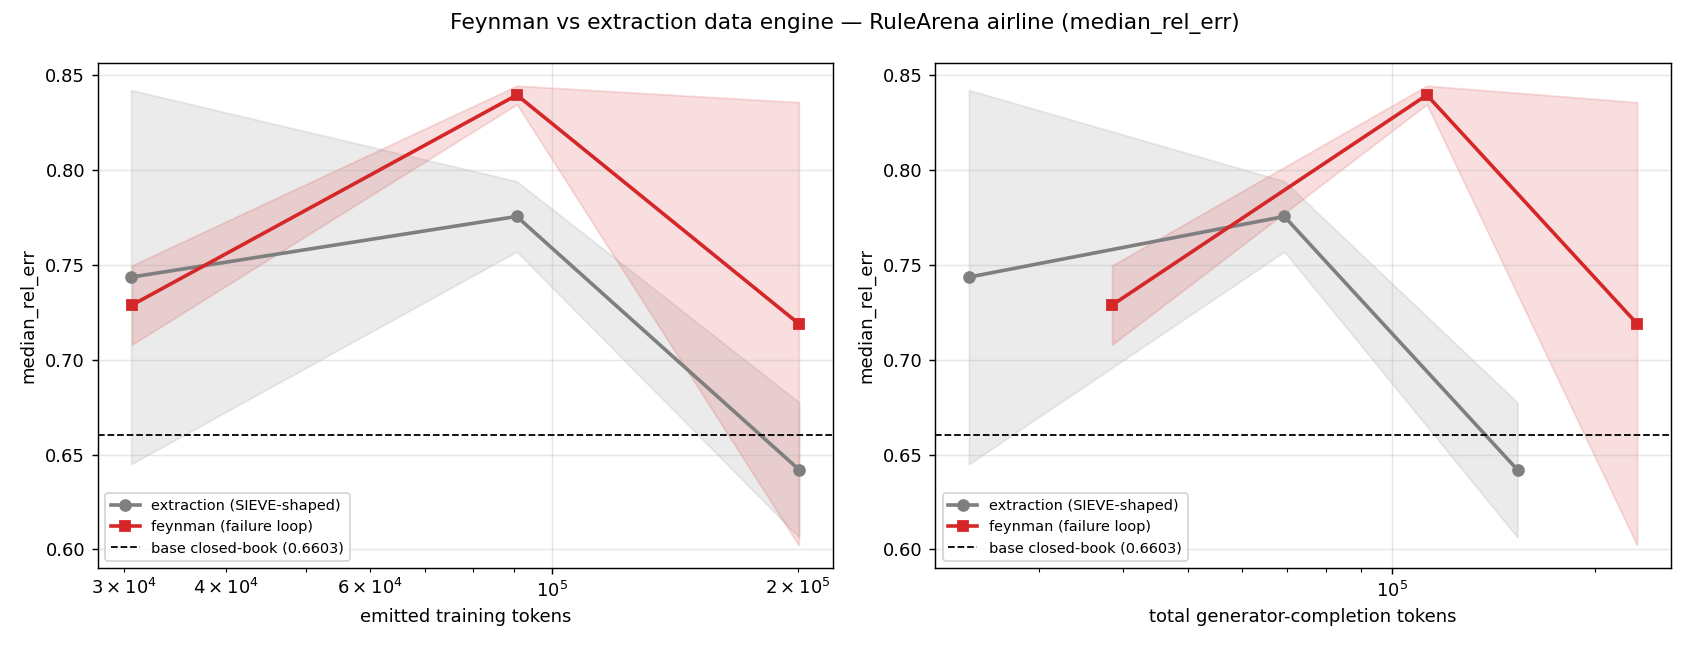
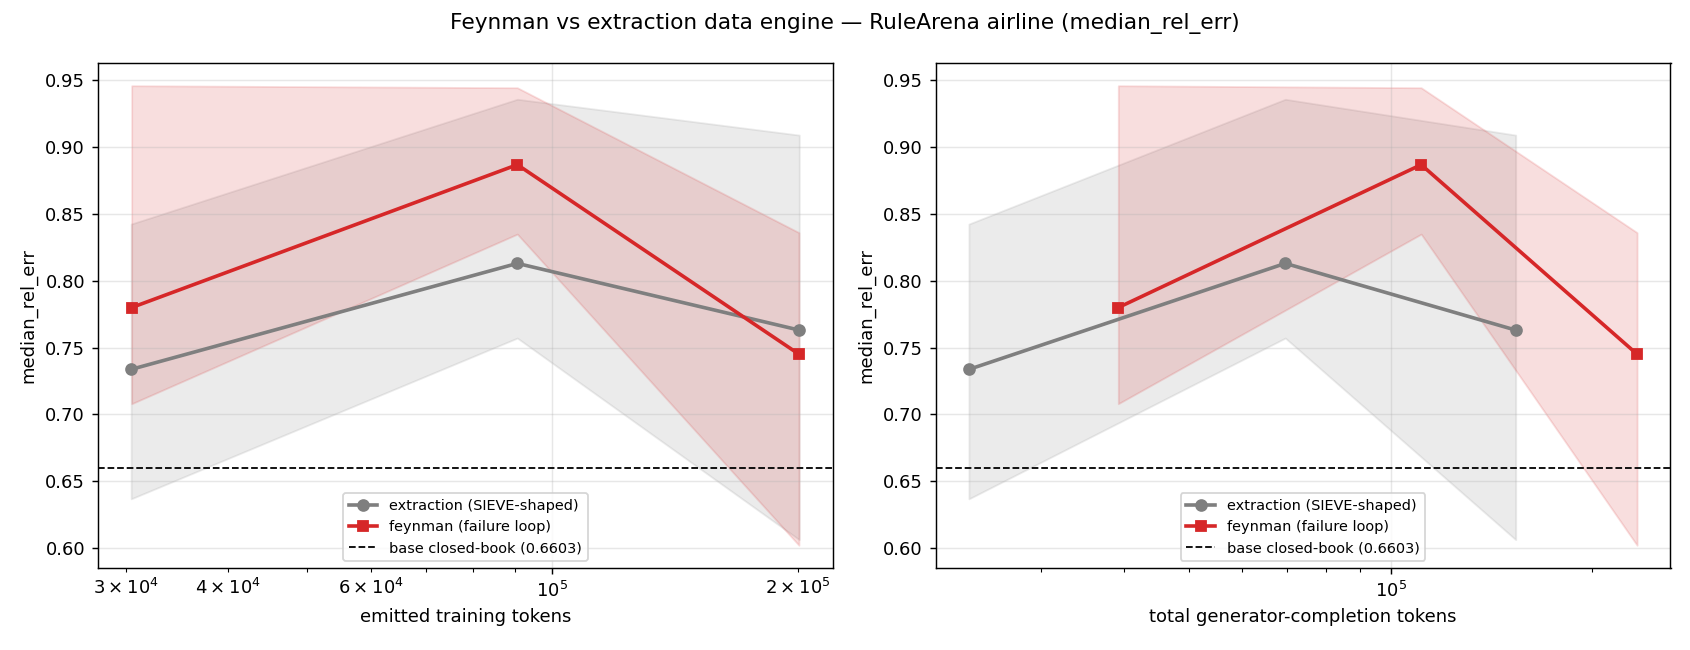
results: 4-seed grid corrects the 2-seed over-read (honest null-ish verdict)
Adding seeds 2,3 flattened the apparent monotonic growing edge: 4-seed within20
diff = +.008/+.017/+.008, all bootstrap CIs span 0, seed spread large (ext 200k
0.05-0.12). No confirmed Feynman win; small persistent positive lean within noise
bought with ~1.6x compute. Both engines beat floor and scale with budget. At 3B,
task capability (not knowledge) is binding -> next needs power + a >=14B learner.

Claude-Session: https://claude.ai/code/session_01P6gt34F2cZ6LYk9VxSpwGz

diff --git a/feynman_data_engine/FINDINGS.md b/feynman_data_engine/FINDINGS.md
@@ -34,47 +34,46 @@ arithmetic), so G2 is measured as a **relative** comparison (feynman-data vs
 extraction-data training the *same* 3B) on a **graded** metric (within-20% of gold).
 A relative comparison needs metric *resolution*, not a high absolute ceiling.
 
-## Result (G2) — Grid: {extraction, feynman} × budget × 2 seeds
+## Result (G2) — Grid: {extraction, feynman} × 3 budgets × **4 seeds**
 
 **Base floor** (untrained Qwen2.5-3B, closed-book, n=100): within20 = 0.02, medRelErr = 0.66.
 
-| budget | engine | within20 (↑) | medRelErr (↓) | gen tokens |
+within20, mean over 4 seeds (per-seed spread in brackets):
+
+| budget | extraction | feynman | fey − ext | compute premium |
 |---|---|---|---|---|
-| 30k | extraction | 0.045 | 0.744 | 23.6k |
-| 30k | feynman | 0.050 | 0.729 | 38.5k |
-| 90k | extraction | 0.060 | 0.776 | 69k |
-| 90k | feynman | 0.070 | 0.840 | 113k |
-| 200k | extraction | 0.100 | 0.642 | 154k |
-| 200k | feynman | **0.125** | 0.719 | 231k |
+| 30k  | 0.040 [0.02–0.07] | 0.048 [0.04–0.06] | +0.008 | 1.67× |
+| 90k  | 0.068 [0.06–0.08] | 0.085 [0.07–0.12] | **+0.017** | 1.60× |
+| 200k | 0.090 [0.05–0.12] | 0.098 [0.06–0.13] | +0.008 | 1.52× |
 
-**Bootstrap (pooled per-problem across seeds, 95% CI):**
+**Bootstrap (pooled per-problem, 95% CI) — none significant:**
+30k +0.007 [−0.022,+0.035] · 90k +0.018 [−0.020,+0.055] · 200k +0.008 [−0.033,+0.048].
 
-| budget | feynman − extraction (within20) | significant? | compute premium |
-|---|---|---|---|
-| 30k | +0.005 [−0.035, +0.045] | no (CI spans 0) | 1.63× |
-| 90k | +0.010 [−0.035, +0.055] | no (CI spans 0) | 1.63× |
-| 200k | **+0.025** [−0.035, +0.090] | no (CI spans 0) | 1.50× |
+**Seed-level paired diffs (fey−ext, per seed):**
+30k [−.01,.02,.01,.01] · 90k [.01,.01,.05,.00] · 200k [.01,.04,−.03,.01] — mostly
+positive, but not unanimously; one 200k seed favours extraction.
 
 Plots: `runs/grid/curve_within20.png`, `runs/grid/curve_medrelerr.png` (both budget axes).
 
-## Honest read (full 3-point curve)
+## Honest read (full 3-budget × 4-seed grid)
 
-1. **A consistent, *growing* advantage — but not yet significant.** Feynman's within20
-   edge widens monotonically with budget: **+0.005 → +0.010 → +0.025**. At 200k feynman
-   is ~**25% relatively better** (0.125 vs 0.100), and both engines finally lift clearly
-   off the floor (0.02). The direction is stable across all three budgets and both seeds —
-   but the bootstrap CI still spans 0 (2 seeds is under-powered for a ~2-point effect).
-2. **The loop is not free.** Feynman spends **1.5–1.6× generator compute**. On the
-   *compute* axis (right panel) its edge shrinks and extraction is more efficient in the
-   mid-range — the emitted-token win is partly bought with extra generator calls.
-3. **Training helps most at scale.** At 200k, extraction's median-rel-err (0.64) finally
-   returns to ~the untrained floor (0.66) and within20 doubles vs 90k — the 3B needs
-   substantial data before the procedure sticks. At low budget SFT mostly adds variance.
-4. **Verdict:** *promising but unconfirmed.* The Feynman recipe shows the predicted
-   budget-scaling behaviour (its advantage grows exactly where failure-driven curricula
-   should help — once there's enough budget to skip the easy and concentrate on the hard),
-   but this thin slice at 3B scale cannot yet call it a win. The right next step is power
-   (more seeds) and a task-capable learner, not a new mechanism.
+1. **A small, consistent positive lean — within noise.** Feynman's mean within20 is
+   ≥ extraction at every budget (+0.008, +0.017, +0.008), but seed variance is large
+   (extraction at 200k spans 0.05–0.12) and every CI spans 0. **No confirmed advantage.**
+2. **Methodological catch — power matters.** The 2-seed run suggested a *monotonically
+   growing* edge (+0.005→+0.010→+0.025, both seeds positive at 200k). Two more seeds
+   flattened it: the 200k diff fell to +0.008 and one new seed favoured extraction. The
+   "growing trend" was partly a small-sample artifact — a caution logged for the full study.
+3. **The loop is not free.** Feynman costs **1.5–1.7× generator compute**. On the *compute*
+   axis its already-small edge all but vanishes; extraction is more compute-efficient
+   mid-range. Any real Feynman value must clear this ~1.6× tax.
+4. **Both engines clearly beat the floor and scale with budget** (0.02 → ~0.09–0.10 at
+   200k). Synthetic worked-example data *works*; which recipe generates it barely moves
+   the needle at 3B scale, where task *capability* — not knowledge coverage — is binding.
+5. **Verdict:** *no confirmed win for Feynman on this slice.* A persistent but
+   non-significant positive lean, bought with extra compute. The mechanism is sound and
+   implemented; discriminating it needs (a) more seeds for power and (b) a **task-capable
+   learner (≥14B)** so the ceiling isn't capacity-bound — not a new mechanism.
 
 ## What this de-risked (and what it did not)
 

diff --git a/feynman_data_engine/runs/RUN_LOG.md b/feynman_data_engine/runs/RUN_LOG.md
@@ -87,13 +87,17 @@ Read:
 - Net: weak/null, slight feynman edge on within20 that GROWS with budget -> motivates
   a higher-budget wave (the "needs budget to pay off" hypothesis).
 
-## Grid wave 2 (200k added) — full 3-point curve
-- within20 (mean/2 seeds): 30k ext .045/fey .050 | 90k .060/.070 | 200k .100/.125.
-- feynman-ext diff GROWS: +0.005 -> +0.010 -> +0.025 (monotonic, both seeds same sign).
-- Bootstrap CIs still span 0 (under-powered at 2 seeds); compute premium 1.5-1.6x.
-- At 200k both engines lift off floor; extraction medRelErr 0.64 ~ base floor 0.66.
-- Verdict: PROMISING but UNCONFIRMED. Feynman shows the predicted budget-scaling
-  (advantage grows where failure-driven curricula should help). Next: more seeds +
-  task-capable learner (>=14B), not a new mechanism.
-- Deliverables: FINDINGS.md, runs/grid/curve_{within20,medrelerr}.png, results.json,
-  scripts/{run_grid,plot_curve,analyze}.py. All committed.
+## Grid final (3 budgets x 4 seeds) — the honest result
+- 2-seed run LOOKED like a growing monotonic edge (+.005->+.010->+.025). Adding
+  seeds 2,3 FLATTENED it: 4-seed within20 diff = +.008 / +.017 / +.008. The 200k
+  "trend" was partly small-sample noise (one new seed favored extraction).
+- 4-seed within20: 30k .040/.048 | 90k .068/.085 | 200k .090/.098 (ext/fey).
+  feynman mean >= extraction everywhere but ALL bootstrap CIs span 0; seed spread
+  huge (ext 200k: 0.05-0.12). Compute premium 1.5-1.7x.
+- VERDICT: no confirmed Feynman win on this slice. Small persistent positive lean
+  within noise, bought with ~1.6x compute. Both engines beat floor (.02->~.10) and
+  scale with budget. At 3B, task CAPABILITY (not knowledge) is binding.
+- Next (later specs): more seeds for power; task-capable learner (>=14B); data-quality
+  gate (verify generator reasoning vs oracle); ablation ladder; SIEVE/Cartridges incumbents.
+- Deliverables (all committed): FINDINGS.md, runs/grid/curve_{within20,medrelerr}.png,
+  results.json, scripts/{run_engine,run_grid,plot_curve,analyze}.py, engine/, learner/.
